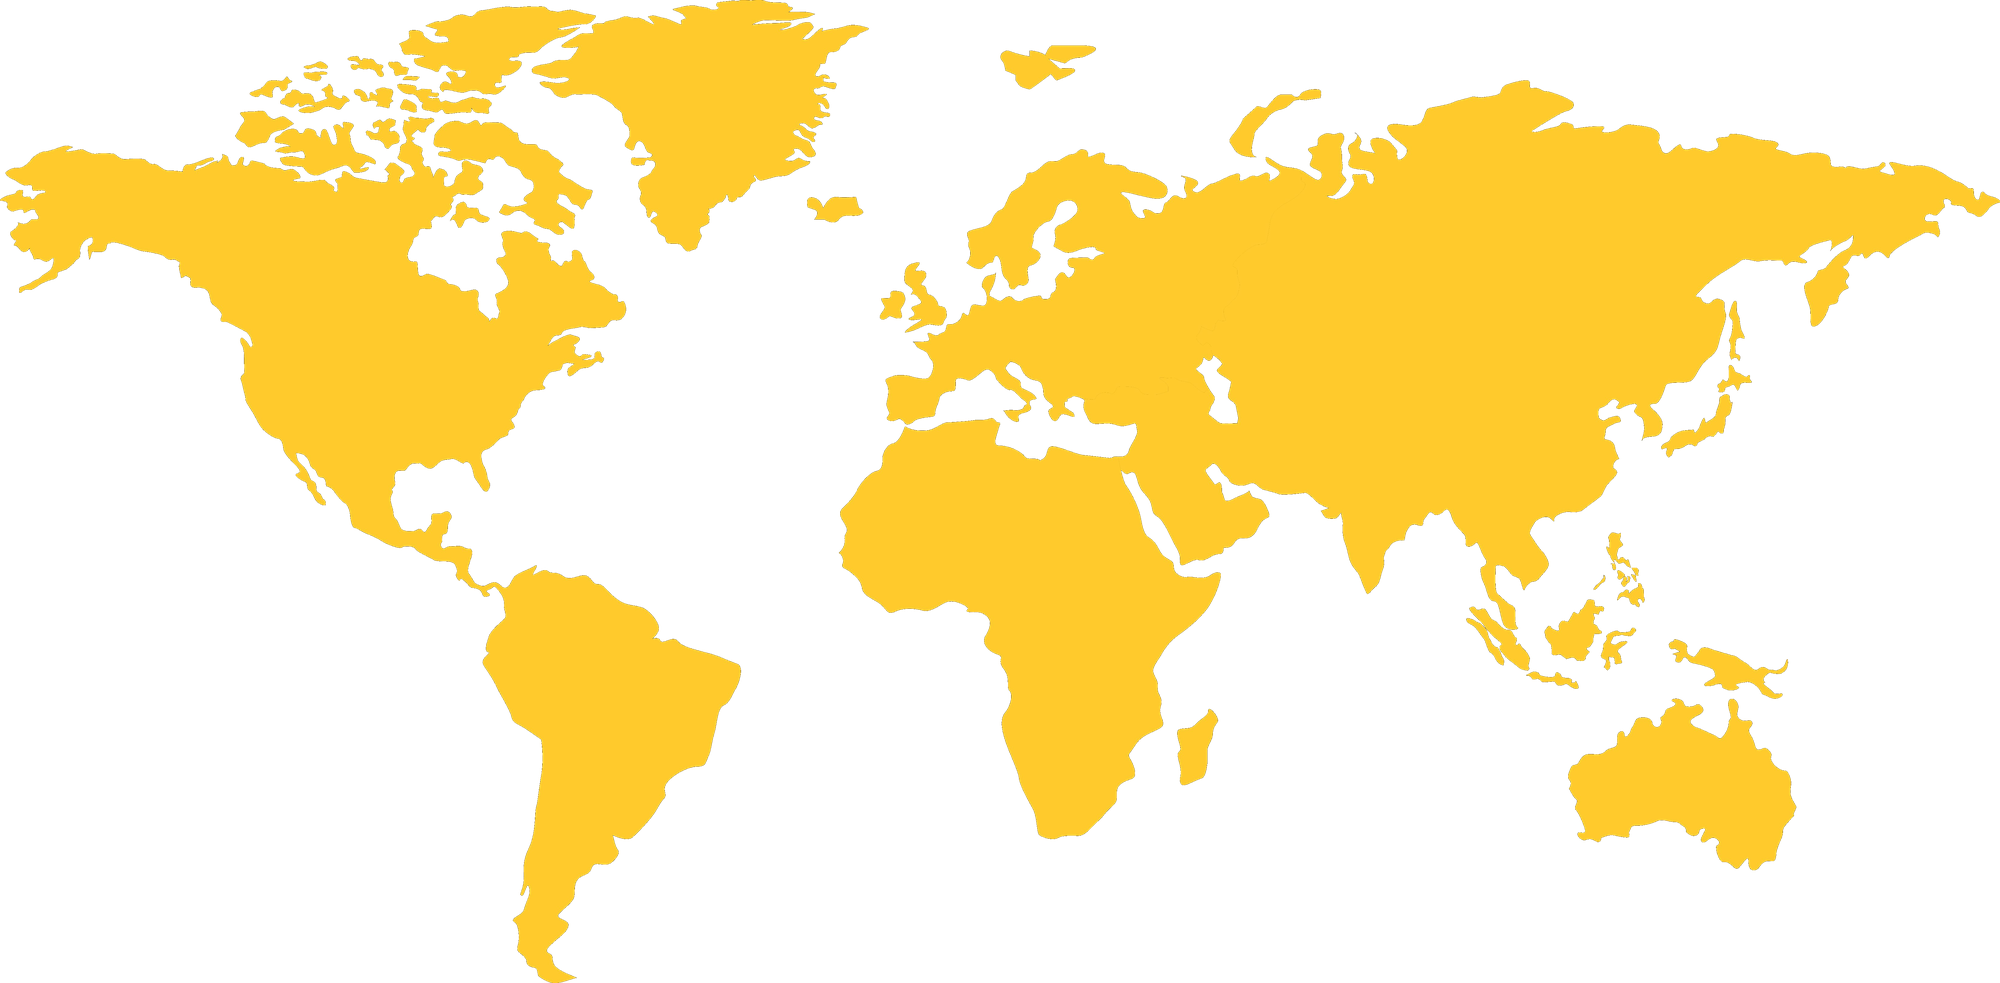
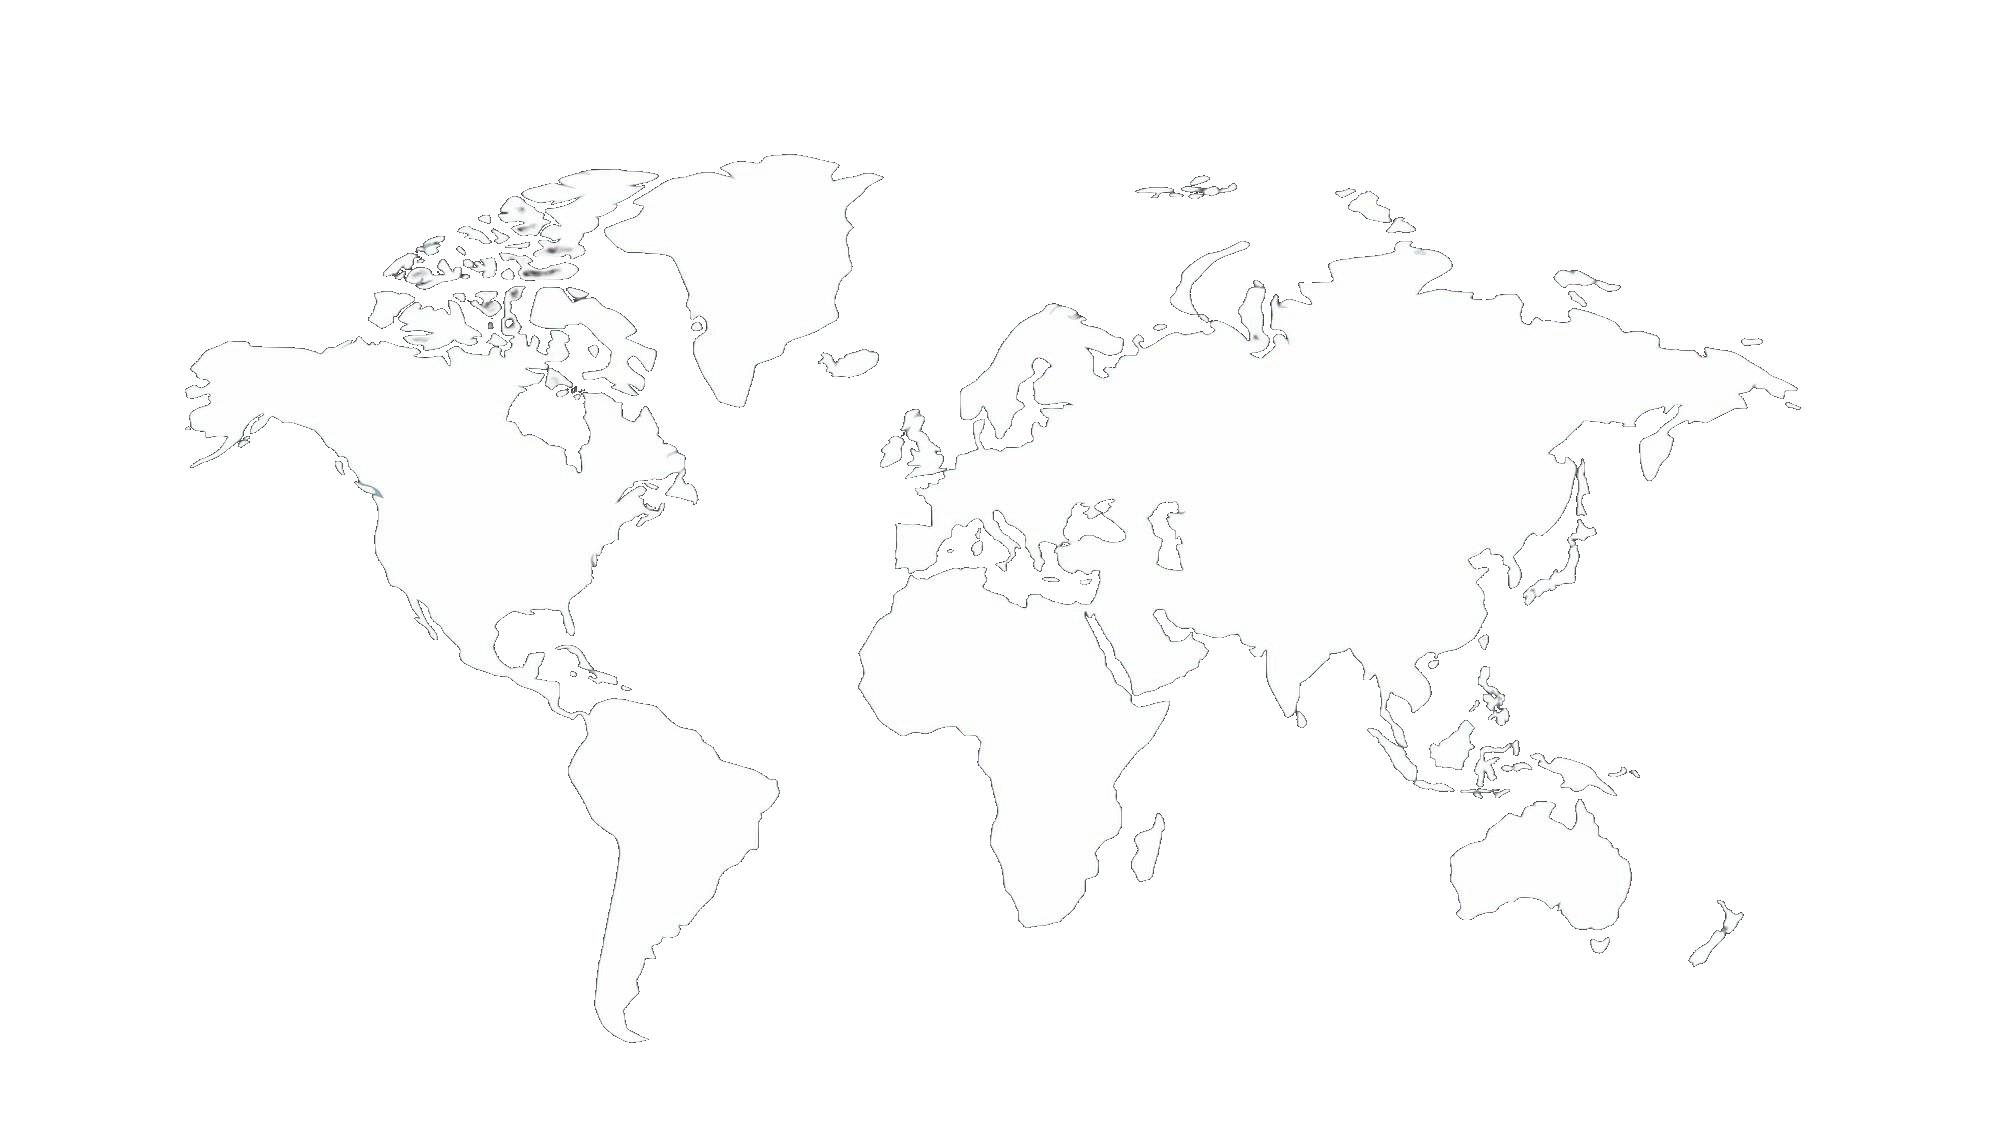
Add files via upload

diff --git a/index.html b/index.html
@@ -32,25 +32,25 @@
         <div class="map-container" id="mapContainer">
           <img src="img/worldmap.png" alt="Weltkarte" id="worldmap-img">
 
-          <!-- Hotspot: Brasilien — ca. 37% von links, 68% von oben -->
+          <!-- Hotspot: Brasilien -->
           <button class="hotspot" data-page="pages/brasilien.html" data-name="Brasilien"
-            style="left: 29%; top: 63%;">
+            style="left: 28%; top: 68%;">
             <span class="hotspot-pulse"></span>
             <span class="hotspot-dot"></span>
             <span class="hotspot-label label-top">Brasilien</span>
           </button>
 
-          <!-- Hotspot: Äthiopien — ca. 57% von links, 55% von oben -->
+          <!-- Hotspot: Äthiopien -->
           <button class="hotspot" data-page="pages/aethiopien.html" data-name="Äthiopien"
-            style="left: 56.5%; top: 54%;">
+            style="left: 57%; top: 57%;">
             <span class="hotspot-pulse"></span>
             <span class="hotspot-dot"></span>
             <span class="hotspot-label label-top">Äthiopien</span>
           </button>
 
-          <!-- Hotspot: Indonesien — ca. 79% von links, 62% von oben -->
+          <!-- Hotspot: Indonesien -->
           <button class="hotspot" data-page="pages/indonesien.html" data-name="Indonesien"
-            style="left: 80%; top: 60%;">
+            style="left: 79%; top: 62%;">
             <span class="hotspot-pulse"></span>
             <span class="hotspot-dot"></span>
             <span class="hotspot-label label-bottom">Indonesien</span>
